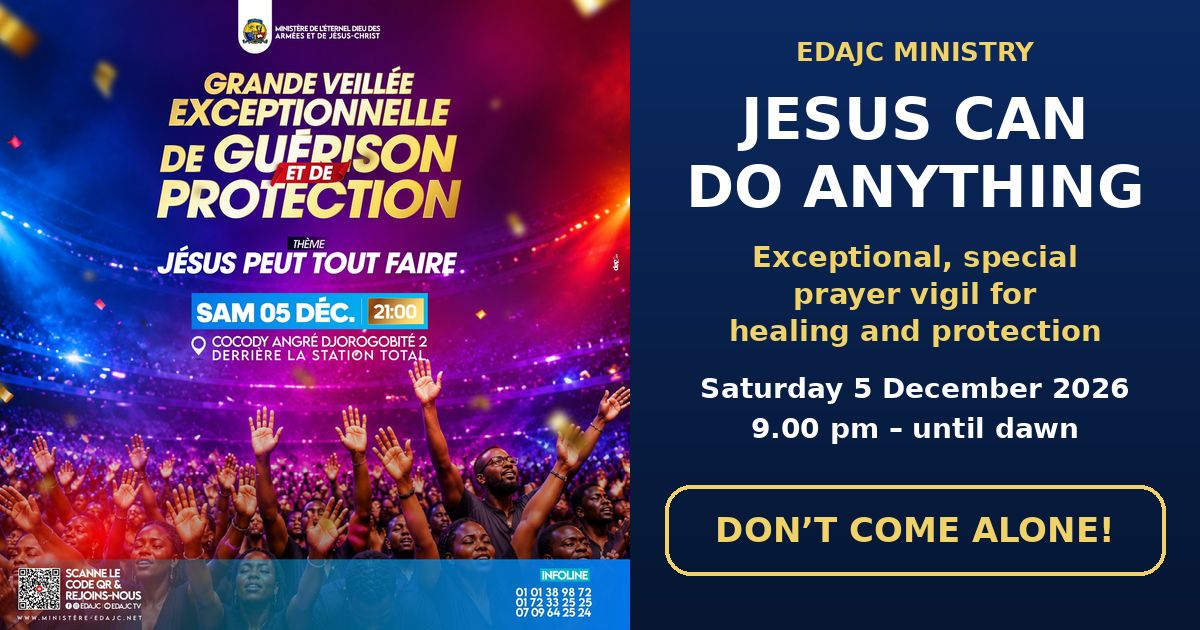
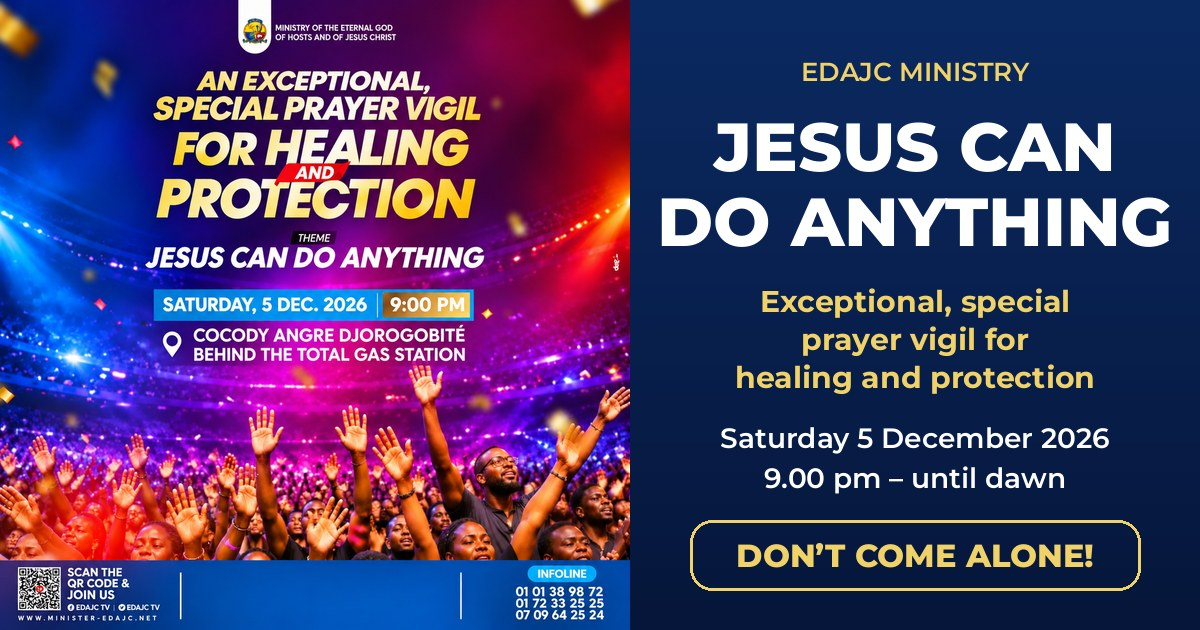
Add files via upload

diff --git a/en.html b/en.html
@@ -25,7 +25,7 @@ input,select{width:100%;min-height:58px;padding:12px 16px;font:inherit;color:#11
 .tel a{color:var(--ink);font-weight:700}
 footer{padding:10px 18px 36px;font-size:16px;opacity:.9}
 </style></head><body><div class="w"><div style="text-align:right;padding:10px 16px"><a href="/" style="color:#f0d268;font-weight:800;text-decoration:none;font-size:16px">Français</a></div></div><div class="w">
-<img class="poster" src="/poster.jpg" width="760" height="760" fetchpriority="high" alt="Official poster of the prayer vigil of the EDAJC Ministry">
+<img class="poster" src="/poster-en.jpg" width="760" height="760" fetchpriority="high" alt="Official poster of the prayer vigil of the EDAJC Ministry">
 <div class="hero">
 <div class="eye">EDAJC MINISTRY</div>
 <h1>Jesus can do anything</h1>
